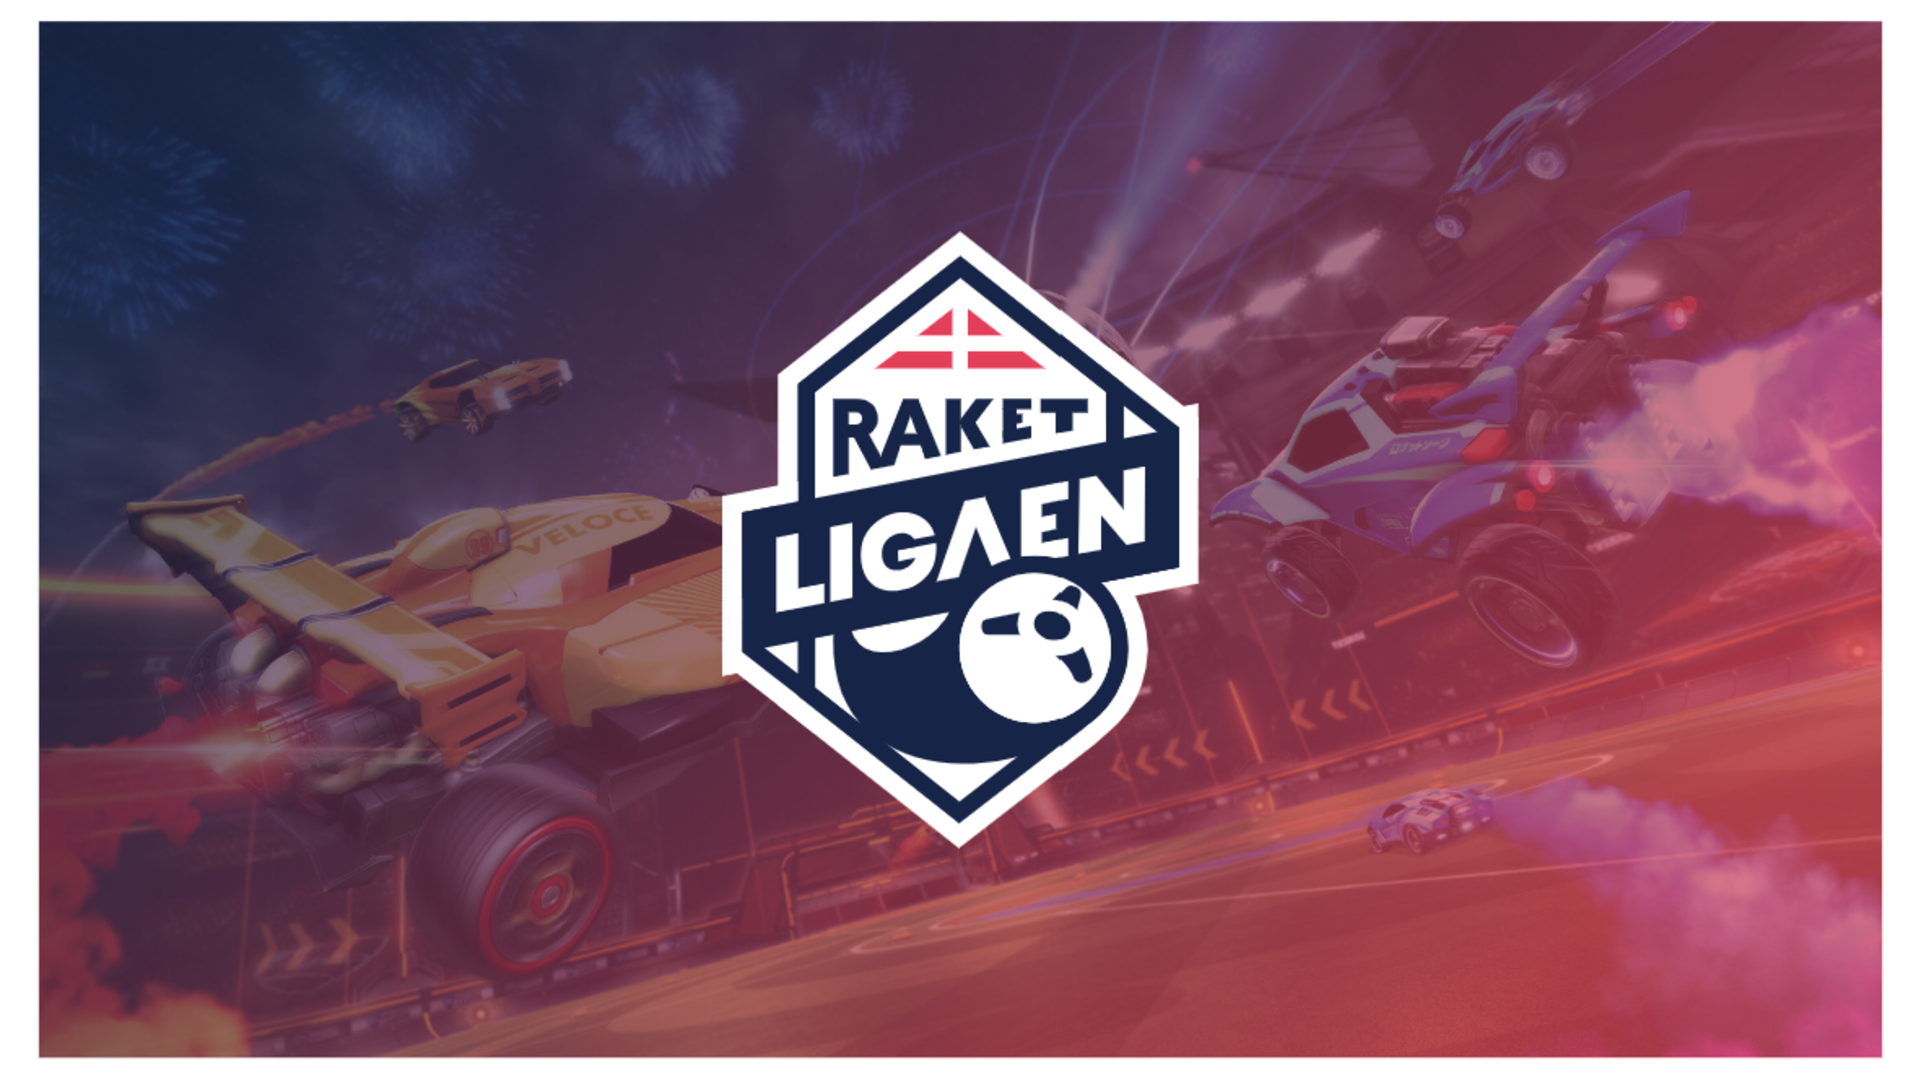
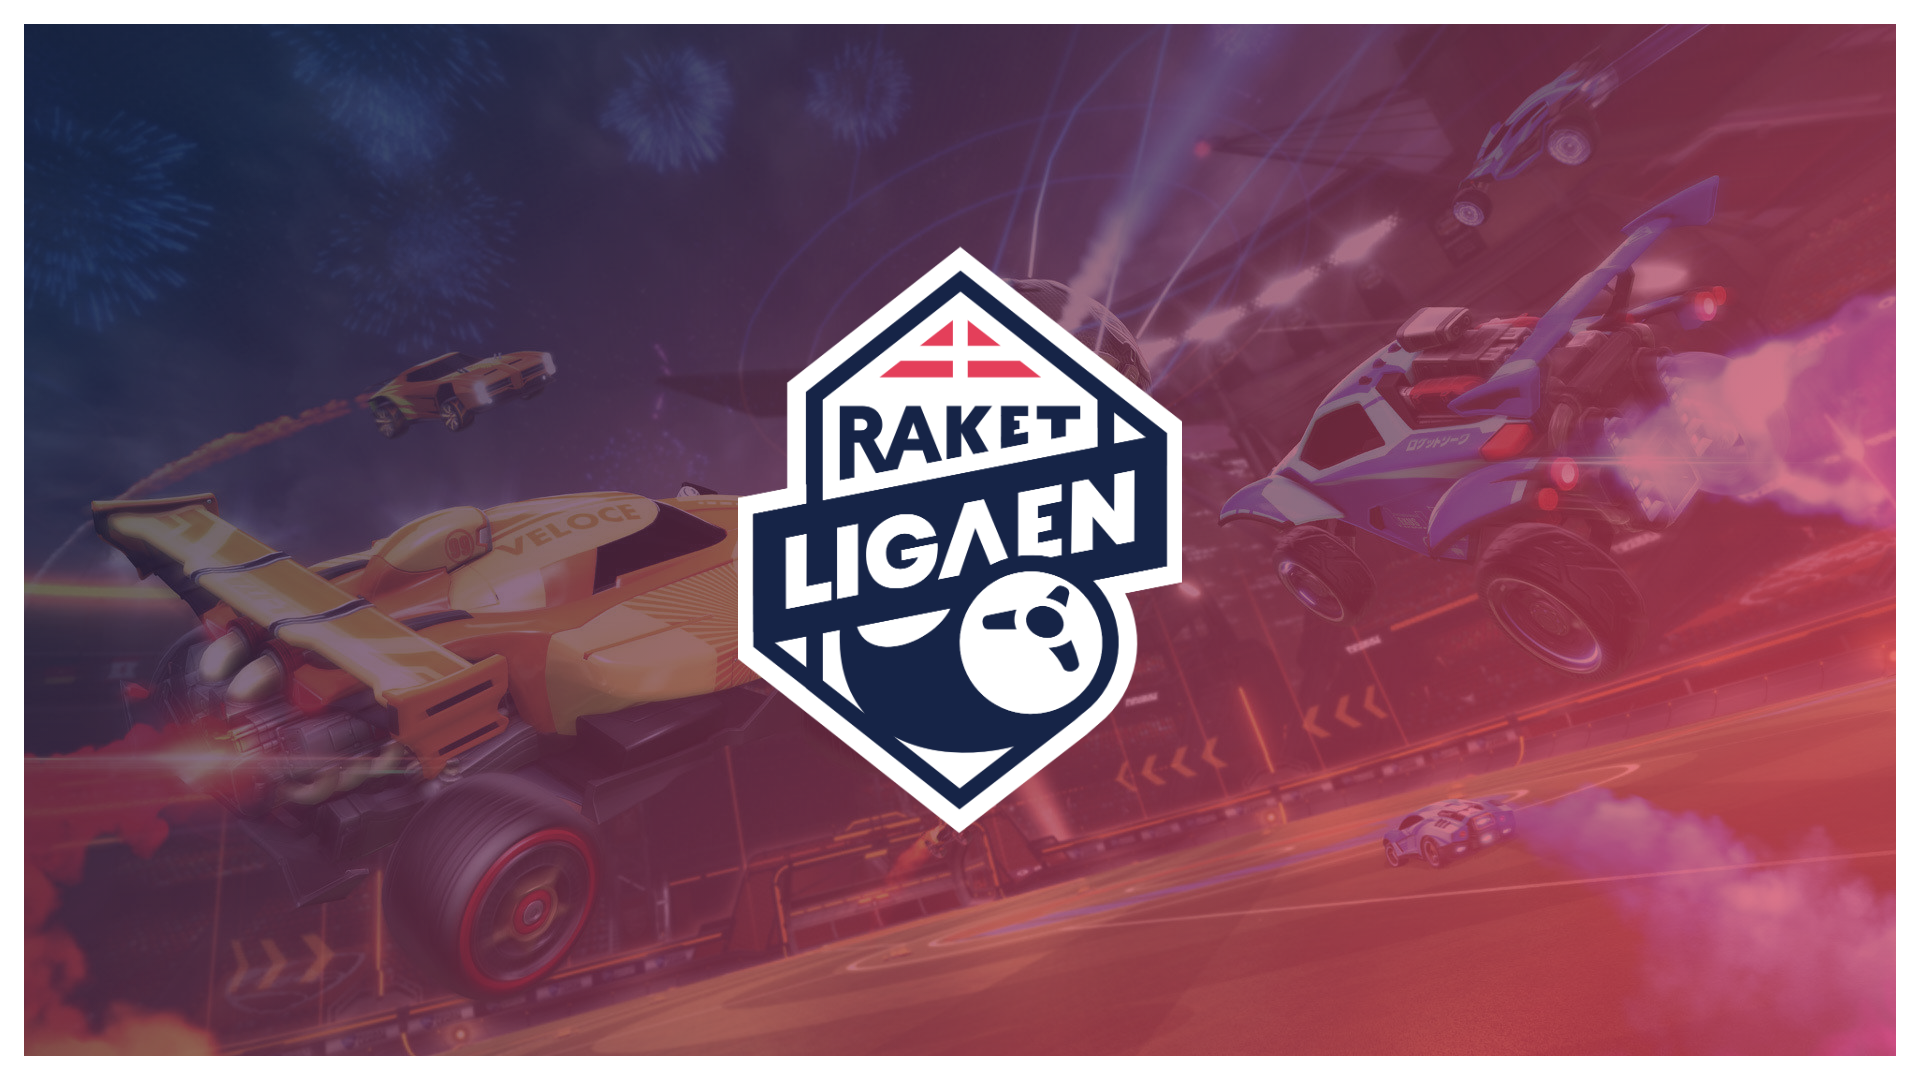
Changed frontpage picture

diff --git a/src/css/Dashboard.css b/src/css/Dashboard.css
@@ -1,8 +1,8 @@
 .bg-image {
   height: 100vh;
   min-height: 500px;
-  background-image: url("../images/frontpage_cover.png");
-  background-size: cover;
+  background-image: url("../images/frontpage.png");
+  /* background-size: cover; */
   background-position: center;
   background-repeat: no-repeat;
 }
